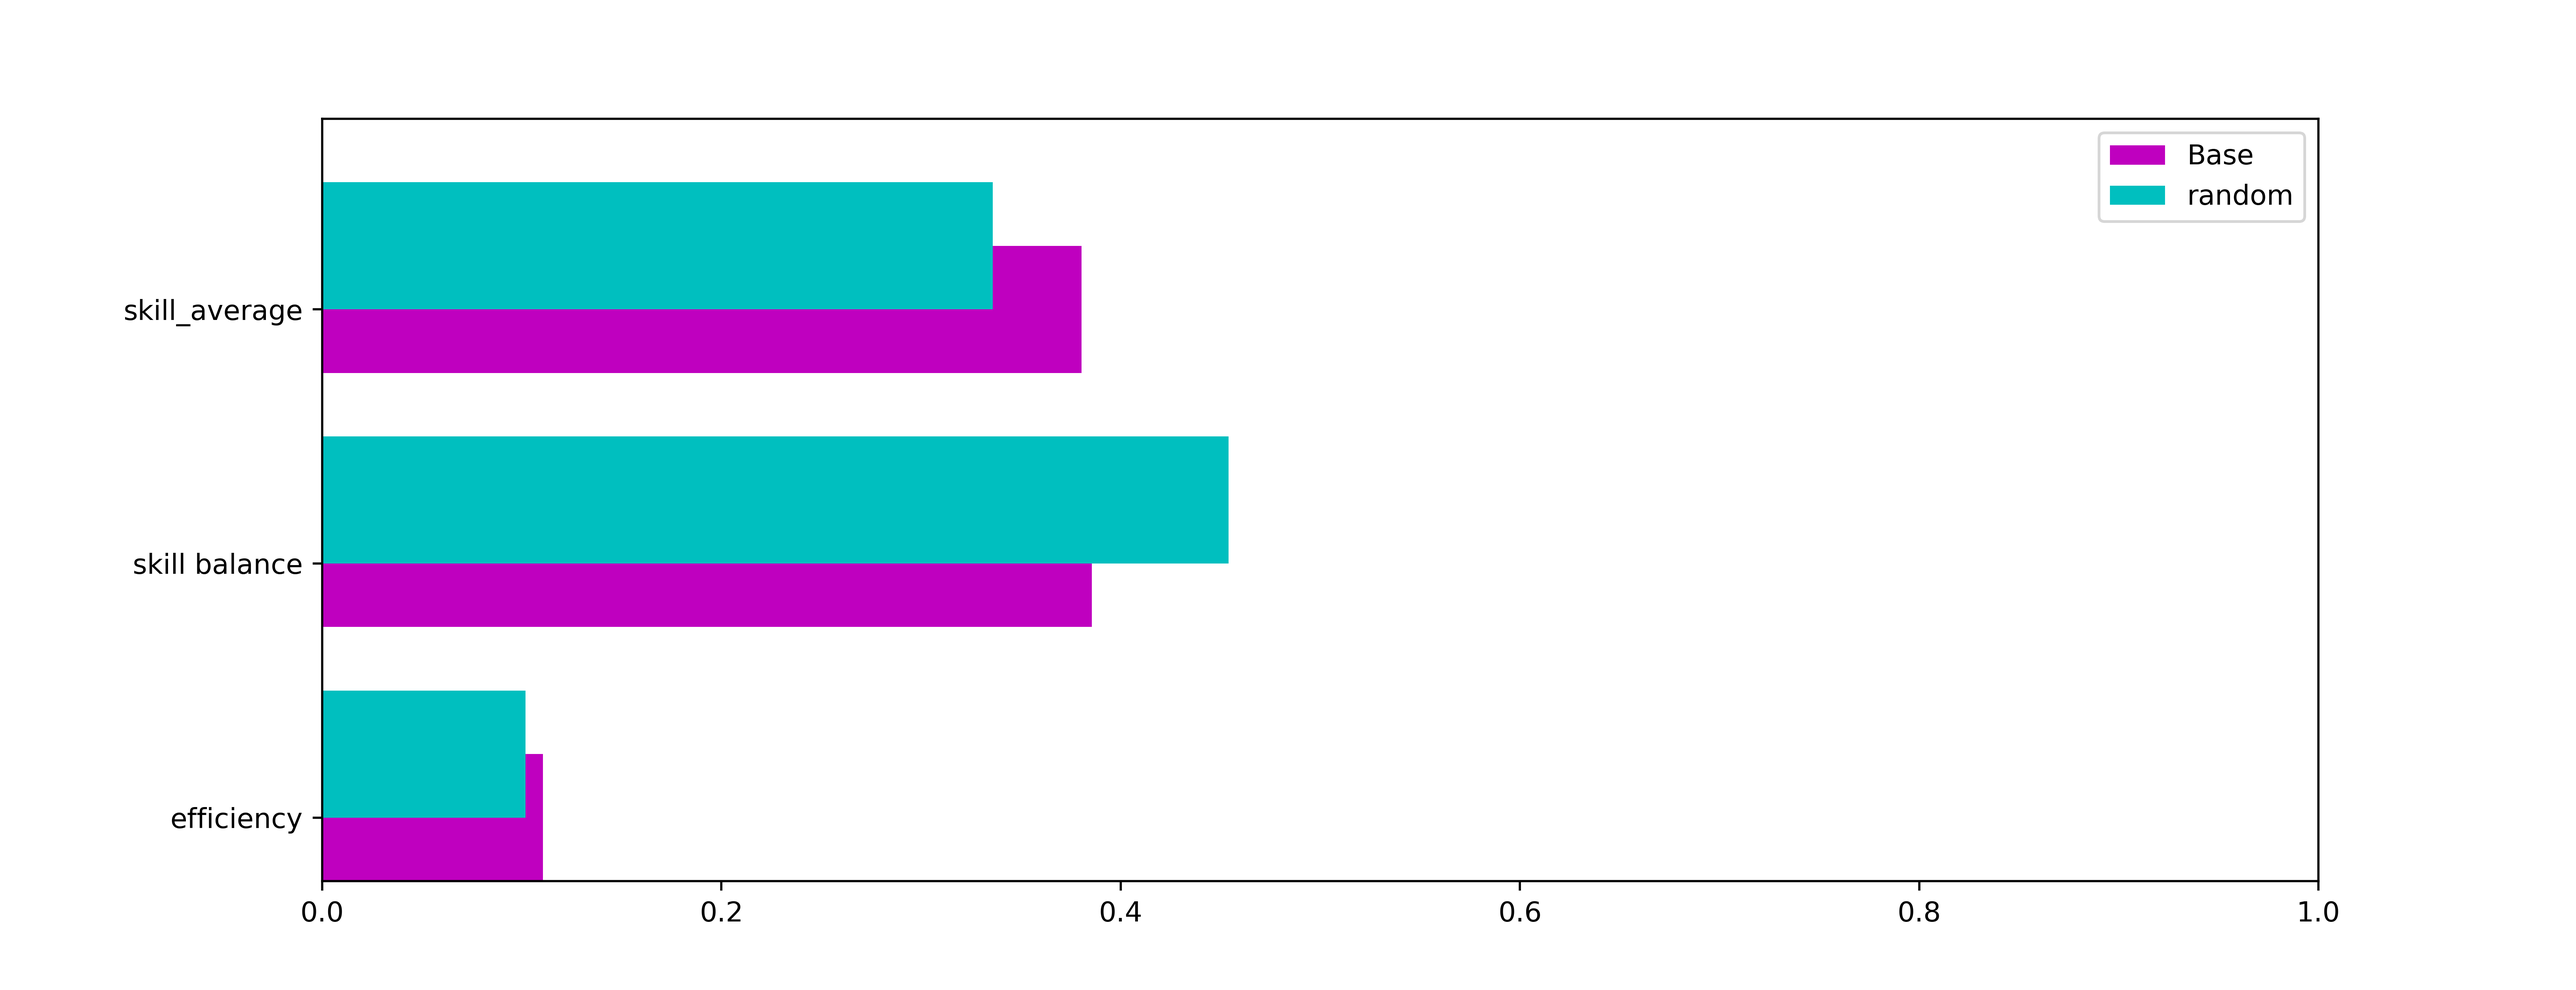
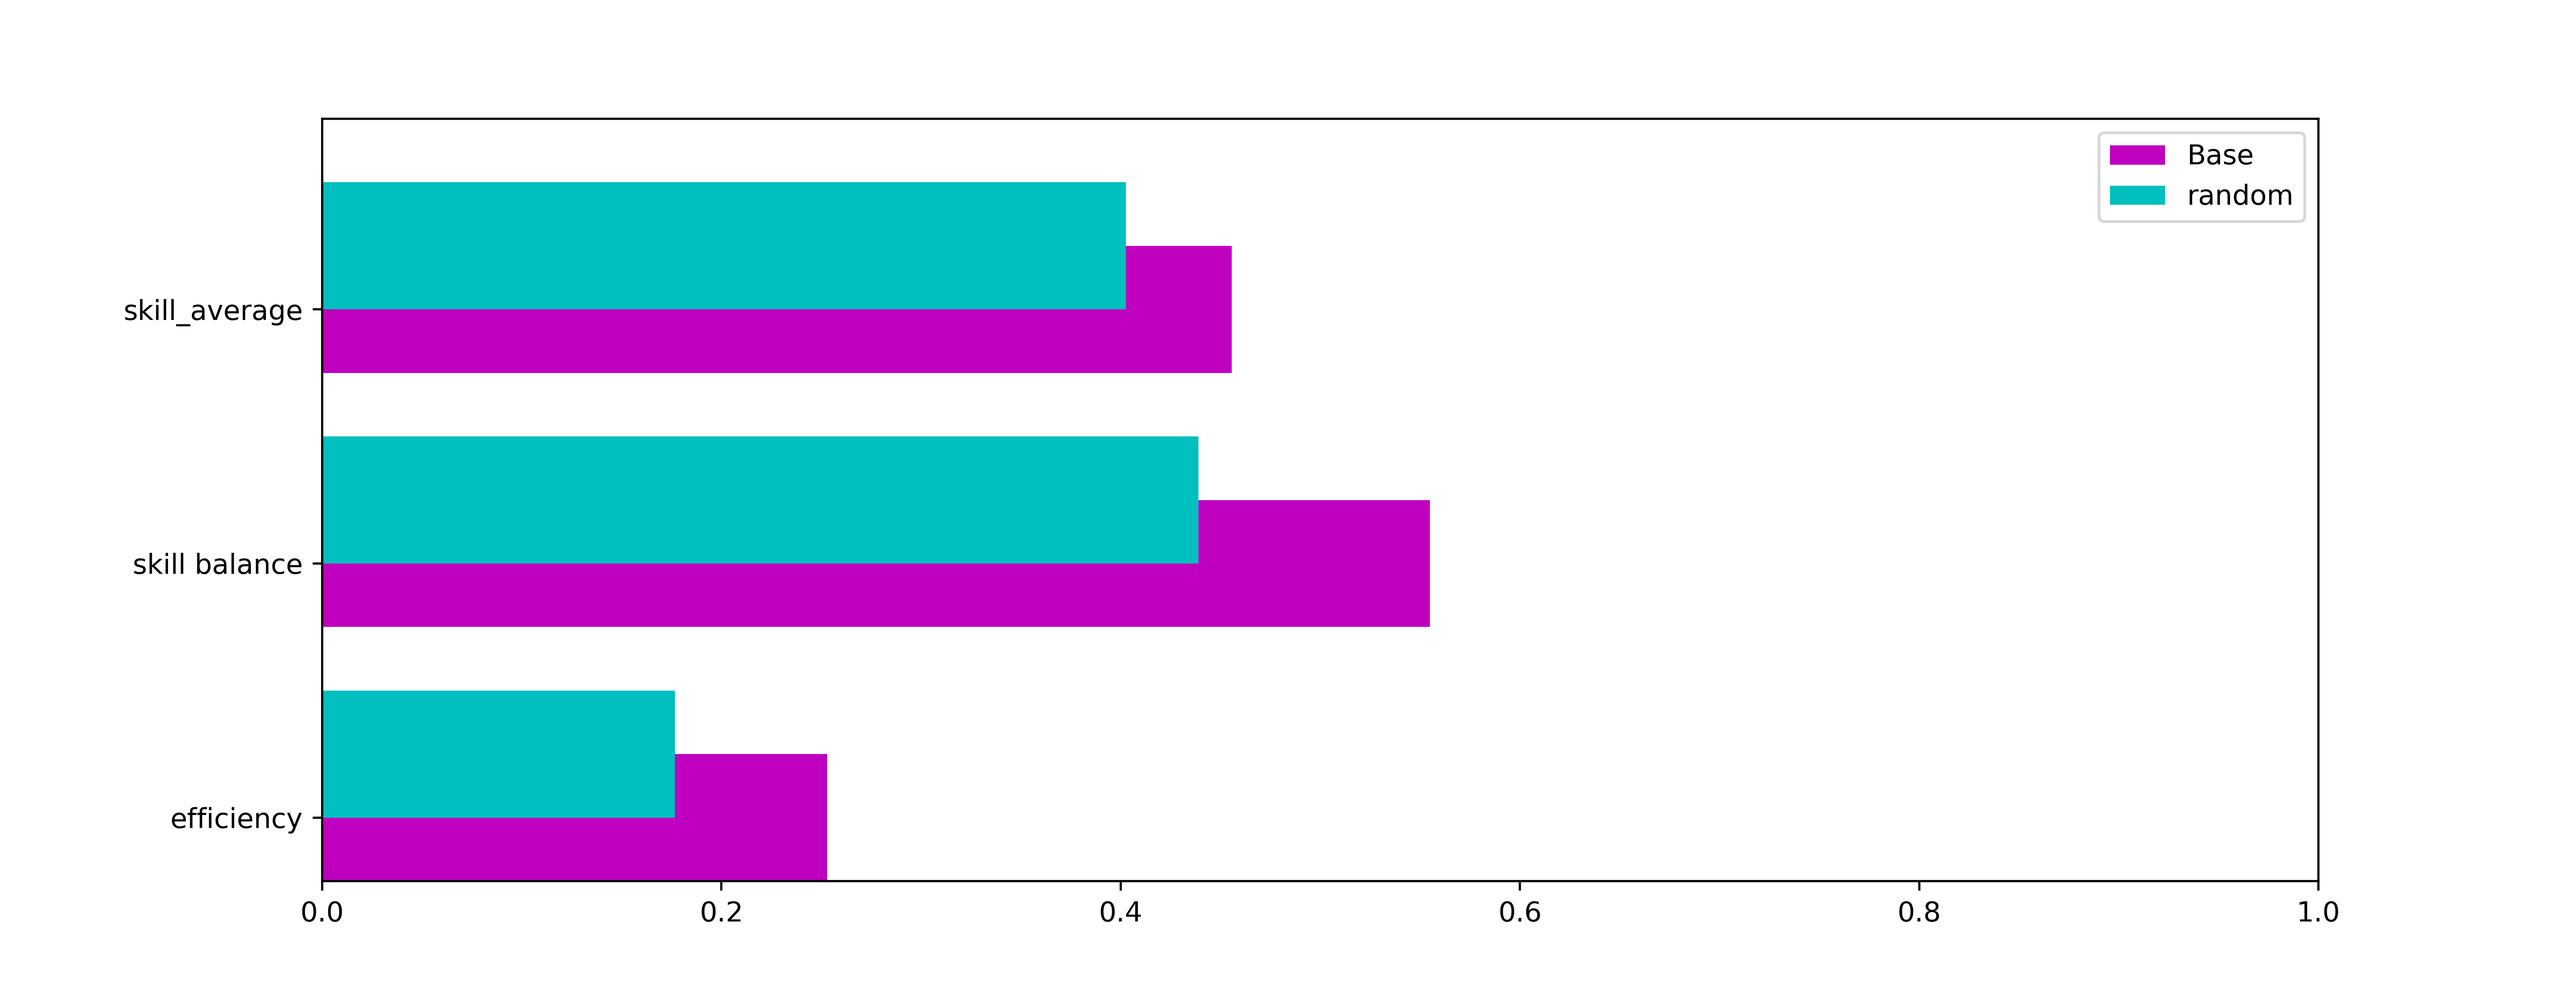
stats

Changed region(s): [[0.1874, 0.6864, 0.3435, 0.9048], [0.406, 0.4368, 0.5622, 0.6552], [0.3748, 0.156, 0.4997, 0.3744]]

diff --git a/PythonFiles/__main__.py b/PythonFiles/__main__.py
@@ -2,6 +2,7 @@ import numpy as np
 import pandas as pd
 import os
 import matplotlib.pyplot as plt
+from copy import deepcopy
 
 
 COLORS = ['m', 'c', 'g', 'k', 'b', 'y', 'r', 'w']
@@ -21,16 +22,65 @@ def load_data(TH_game_name: str):
         if filename.endswith(".dat"):
             method_name: str = filename[filename.find("_mth-")+5:filename.find(".dat")]
             data = pd.read_csv(data_directory + filename)
-            data = data.fillna(0)
-            method_data[method_name] = data.mean(axis=0)
-            print(method_name, data.mean(axis=0), '\n', sep="\n")
+            method_data[method_name] = get_global_data(data)
+
+            print(method_name, method_data[method_name][["skill_average", "skill balance", "efficiency", ]], '\n', sep="\n")
     return method_data
+
+
+def get_global_data(data):
+
+    data = deepcopy(data).fillna(0)
+
+    print("nb_hands.sum: ", data["nb_hands"].sum())
+    print("data.shape: ", data.shape)
+    print(" data['successful_loss']: ", data["successful_loss_rate"] * (data["nb_hands"] - data["expected_win_rate"] * data["nb_hands"]))
+
+    expected_win = data["expected_win_rate"] * data["nb_hands"]
+    successful_win = data["successful_win_rate"] * expected_win
+    successful_loss = data["successful_loss_rate"] * (data["nb_hands"] - expected_win)
+    bluff = data["bluff_rate"] * (data["nb_hands"] - expected_win)
+
+    print("expected_win: ", expected_win.sum(), " successful_win: ", successful_win.sum(),
+          " successful_loss: ", successful_loss.sum(),
+          " bluff: ", bluff.sum())
+
+    expected_win_rate = expected_win.sum() / data["nb_hands"].sum()
+    successful_win_rate = successful_win.sum() / expected_win.sum()
+    successful_loss_rate = successful_loss.sum() / (data["nb_hands"].sum() - expected_win.sum())
+    bluff_rate = bluff.sum() / (data["nb_hands"].sum() - expected_win.sum())
+
+    print("expected_win_rate: ", expected_win_rate, " successful_win_rate: ", successful_win_rate,
+          " successful_loss_rate: ", successful_loss_rate, " bluff_rate: ", bluff_rate)
+
+    skill_average = (2/5) * successful_win_rate + (2/5) * successful_loss_rate + (1/5) * bluff_rate
+    skill_balance = (4/5) * np.abs(successful_win_rate - successful_loss_rate) + \
+                    (1 / 10) * np.abs(bluff_rate - successful_loss_rate) + \
+                    (1 / 10) * np.abs(successful_win_rate - bluff_rate)
+
+    new_data = pd.DataFrame(columns=data.columns.to_list())
+    new_data = new_data.append({
+        "win_rate": data["win_rate"].mean(),
+        "expected_win_rate": expected_win_rate,
+        "successful_win_rate": successful_win_rate,
+        "successful_loss_rate": successful_loss_rate,
+        "bluff_rate": bluff_rate,
+        "skill_average": skill_average,
+        "skill balance": skill_balance,
+        "efficiency": skill_average * skill_balance,
+        "gains": data["gains"].sum(),
+        "loss": data["loss"].sum(),
+        "nb_hands": data["nb_hands"].sum(),
+        "elapse_time [s]": data["elapse_time [s]"].sum()
+    }, ignore_index=True).iloc[0]
+
+    return new_data
 
 
 def plot_data(method_data: dict):
     other_stats = ["win_rate", "expected_win_rate", ]
     base_stats = ["successful_win_rate", "successful_loss_rate", "bluff_rate", ]
-    power_stats = ["skill_average", "skill balance", "efficiency"]
+    power_stats = ["skill_average", "skill balance", "efficiency", ]
 
     stats: dict = {
         "other stats": other_stats,
@@ -41,17 +91,21 @@ def plot_data(method_data: dict):
     for sts_name, sts in stats.items():
         fig = plt.figure(figsize=(13, 5))
         for i, (mth, data) in enumerate(method_data.items()):
+            print(mth, data[sts], '\n', sep='\n')
             data[sts].sort_index().plot.barh(alpha=1.0, label=mth,
                                              color=COLORS[i%len(COLORS)],
-                                             # width=0.9-i/10,
                                              align=["center", "edge"][i%2])
         plt.xlim([0, 1])
-        # plt.xlabel("rate")
         plt.legend()
         plt.savefig(rf"Figures/{sts_name}_mths-{'-'.join([mth for mth in method_data])}.png", dpi=500)
-        plt.show(block=False)
+        # plt.show(block=False)
+        plt.close(fig)
 
 
 if __name__ == '__main__':
-    base_rn_data = load_data("base-rn")
-    plot_data(base_rn_data)
+    # base_rn_data = load_data("base-rn")
+    mcts_base_data = load_data("mcts-base")
+    # mcts_rn_data = load_data("mcts-rn")
+    # plot_data(base_rn_data)
+    # plot_data(mcts_base_data)
+    # plot_data(mcts_rn_data)
